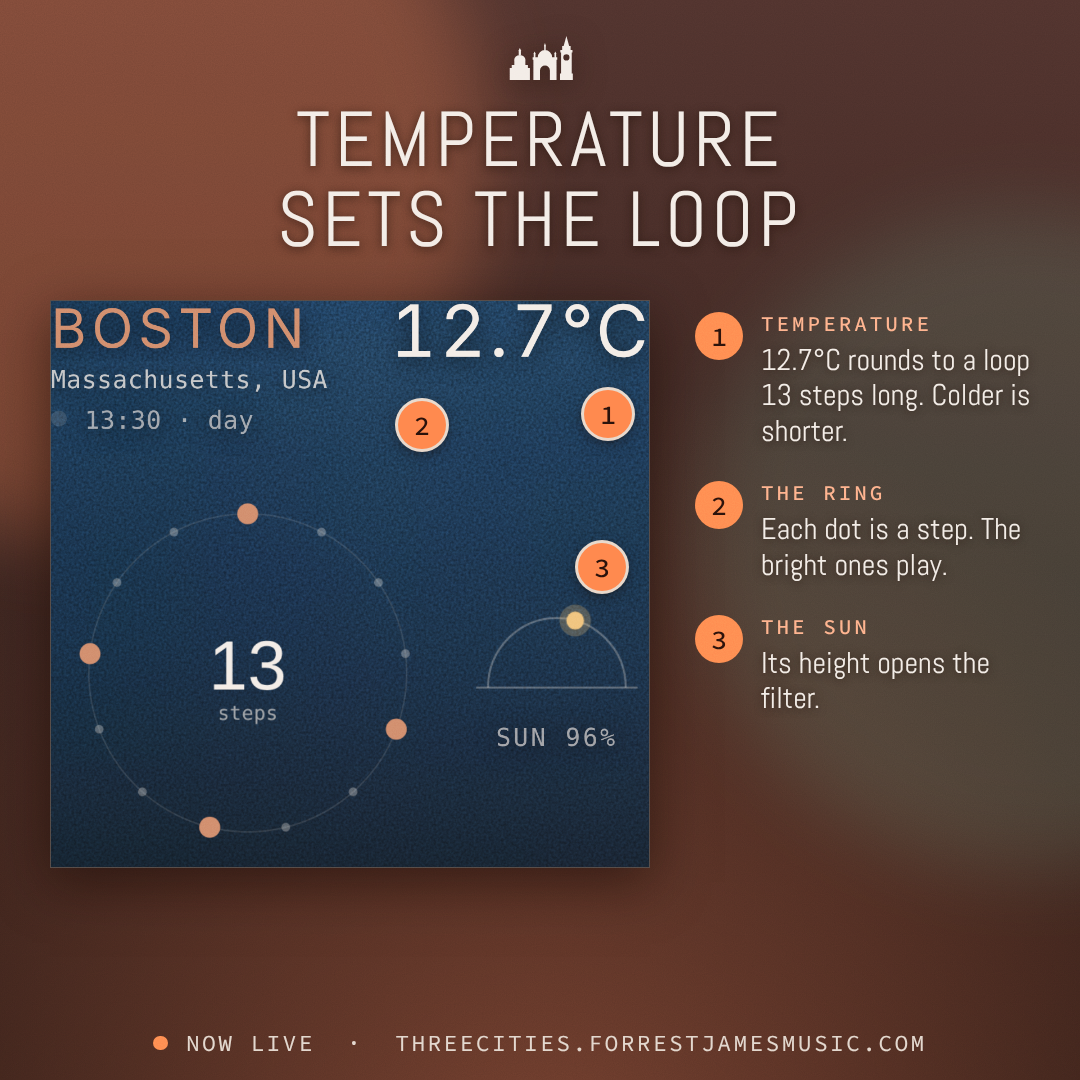
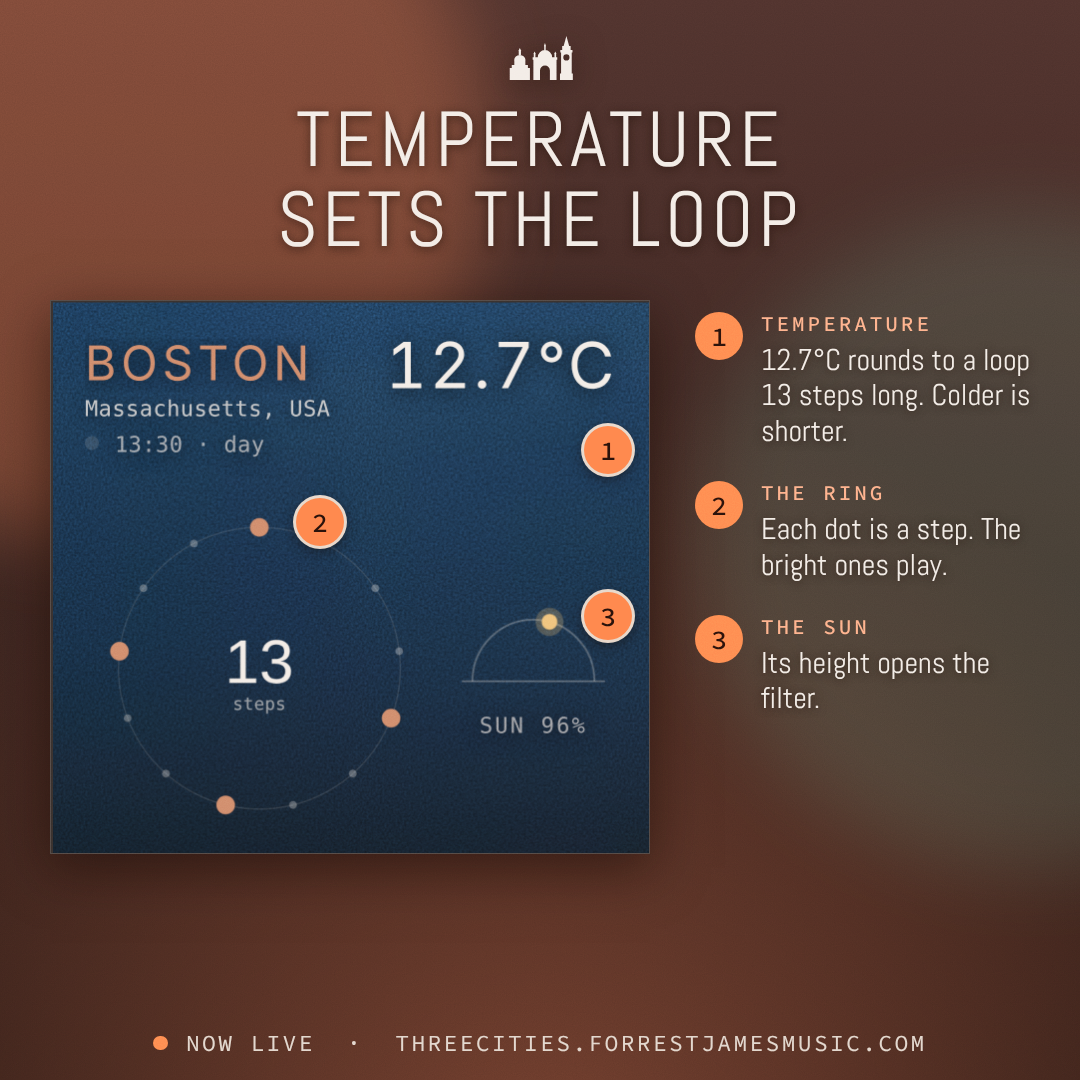
Instagram slide 3: show the full Boston card with room around it
Claude-Session: https://claude.ai/code/session_013wkPBXgzATwqpT2fz47Ydi

diff --git a/launch-graphics/social/assets/sq/sizes.js b/launch-graphics/social/assets/sq/sizes.js
@@ -1,1 +1,1 @@
-window.SZ={"p-groove-grid": [1432, 472], "p-card1-top": [1064, 984], "p-groove-controls": [1432, 1680], "d-midi-default": [1880, 1420], "p-harm-chords": [1296, 1184], "p-card2-lower": [1112, 1096], "p-pedal-delay": [1368, 1184], "d-midi-rerouted": [1880, 1420], "p-filter": [1360, 1244], "p-pedal-hall": [1368, 1184], "p-card0-top": [1064, 1008], "p-card1-chips": [1112, 572], "p-harm-top": [1360, 760], "memory-map": [2416, 2086], "pick-any": [1352, 642], "phone-hero": [1170, 2532], "hero": [2880, 1540]};
+window.SZ={"p-groove-grid": [1432, 472], "p-card1-top": [1064, 984], "p-groove-controls": [1432, 1680], "d-midi-default": [1880, 1420], "p-harm-chords": [1296, 1184], "p-card2-lower": [1112, 1096], "p-pedal-delay": [1368, 1184], "d-midi-rerouted": [1880, 1420], "p-filter": [1360, 1244], "p-pedal-hall": [1368, 1184], "p-card0-top": [1064, 1008], "p-card0-topfull": [1200, 1108], "p-card1-chips": [1112, 572], "p-harm-top": [1360, 760], "memory-map": [2416, 2086], "pick-any": [1352, 642], "phone-hero": [1170, 2532], "hero": [2880, 1540]};

diff --git a/launch-graphics/social/square.html b/launch-graphics/social/square.html
@@ -91,7 +91,7 @@ const cols = (items, y, x0 = 60, total = 960, size = 29) => { const gap = 30, cw
 const line = (txt, y, size = 31, color = 'var(--ink)') => `<div class="t" style="top:${y}px;font-size:${size}px;line-height:1.2;color:${color};padding:0 90px;text-shadow:0 1px 8px rgba(30,14,8,.6)">${txt}</div>`;
 const D = {};
 
-D['01-temperature'] = () => { const f = figS('p-card0-top', 50, 300, 600, [[1, .93, .2], [2, .62, .22], [3, .92, .47]]);
+D['01-temperature'] = () => { const f = figS('p-card0-topfull', 50, 300, 600, [[1, .93, .27], [2, .45, .4], [3, .93, .57]]);
   return sq('warm', head('Temperature<br>sets the loop') + f.html + nt([[1, 'Temperature', '12.7°C rounds to a loop 13 steps long. Colder is shorter.'], [2, 'The ring', 'Each dot is a step. The bright ones play.'], [3, 'The sun', 'Its height opens the filter.']], 695, 310, 340) + footS()); };
 
 D['02-humidity'] = () => { const f = figS('p-card1-chips', 70, 295, 940);

diff --git a/launch-graphics/capture_square.py b/launch-graphics/capture_square.py
@@ -19,7 +19,7 @@ def clipbox(pg, sels):
     return pg.evaluate("""(L)=>{const E=L.map(([s,i])=>document.querySelectorAll(s)[i]); E[0].scrollIntoView({block:'center',inline:'center'}); let x0=1e9,y0=1e9,x1=-1e9,y1=-1e9;for(const e of E){const r=e.getBoundingClientRect();x0=Math.min(x0,r.x);x1=Math.max(x1,r.right);y0=Math.min(y0,r.y);y1=Math.max(y1,r.bottom);}return {x:x0,y:y0,width:x1-x0,height:y1-y0}}""", sels)
 def run(p, prefix, vw, vh, mobile):
     b = p.chromium.launch(); ctx = b.new_context(viewport={'width': vw, 'height': vh}, device_scale_factor=DSF, is_mobile=mobile, has_touch=mobile); ctx.add_init_script(mock)
-    pg = ctx.new_page(); pg.on('pageerror', lambda e: print('ERR', e))
+    pg = ctx.new_page(); pg.clock.install(time='2026-10-21T17:30:00Z'); pg.on('pageerror', lambda e: print('ERR', e))
     pg.route('**/*', lambda r: r.abort() if r.request.url.startswith('http') else r.continue_())
     pg.goto((root / 'index.html').as_uri()); pg.wait_for_timeout(2500)
     pg.add_style_tag(content='*{animation:none!important;transition:none!important}')
@@ -27,6 +27,8 @@ def run(p, prefix, vw, vh, mobile):
     for i in range(3):
         S(f'card{i}', box(pg, '.city', i))
         S(f'card{i}-top', clipbox(pg, [['.city .city-head', i], ['.city .viz', i]]))
+        cb = box(pg, '.city', i); vb = pg.evaluate("(i)=>{const r=document.querySelectorAll('.city .viz')[i].getBoundingClientRect();return r.bottom}", i)
+        S(f'card{i}-topfull', {'x': cb['x'], 'y': cb['y'], 'width': cb['width'], 'height': vb - cb['y'] + 6})
         S(f'card{i}-chips', box(pg, '.city .glance', i), 6)
         S(f'card{i}-lower', clipbox(pg, [['.city .glance', i], ['.city .quick', i]]), 6)
     S('harm', box(pg, '.mod-harm'))
